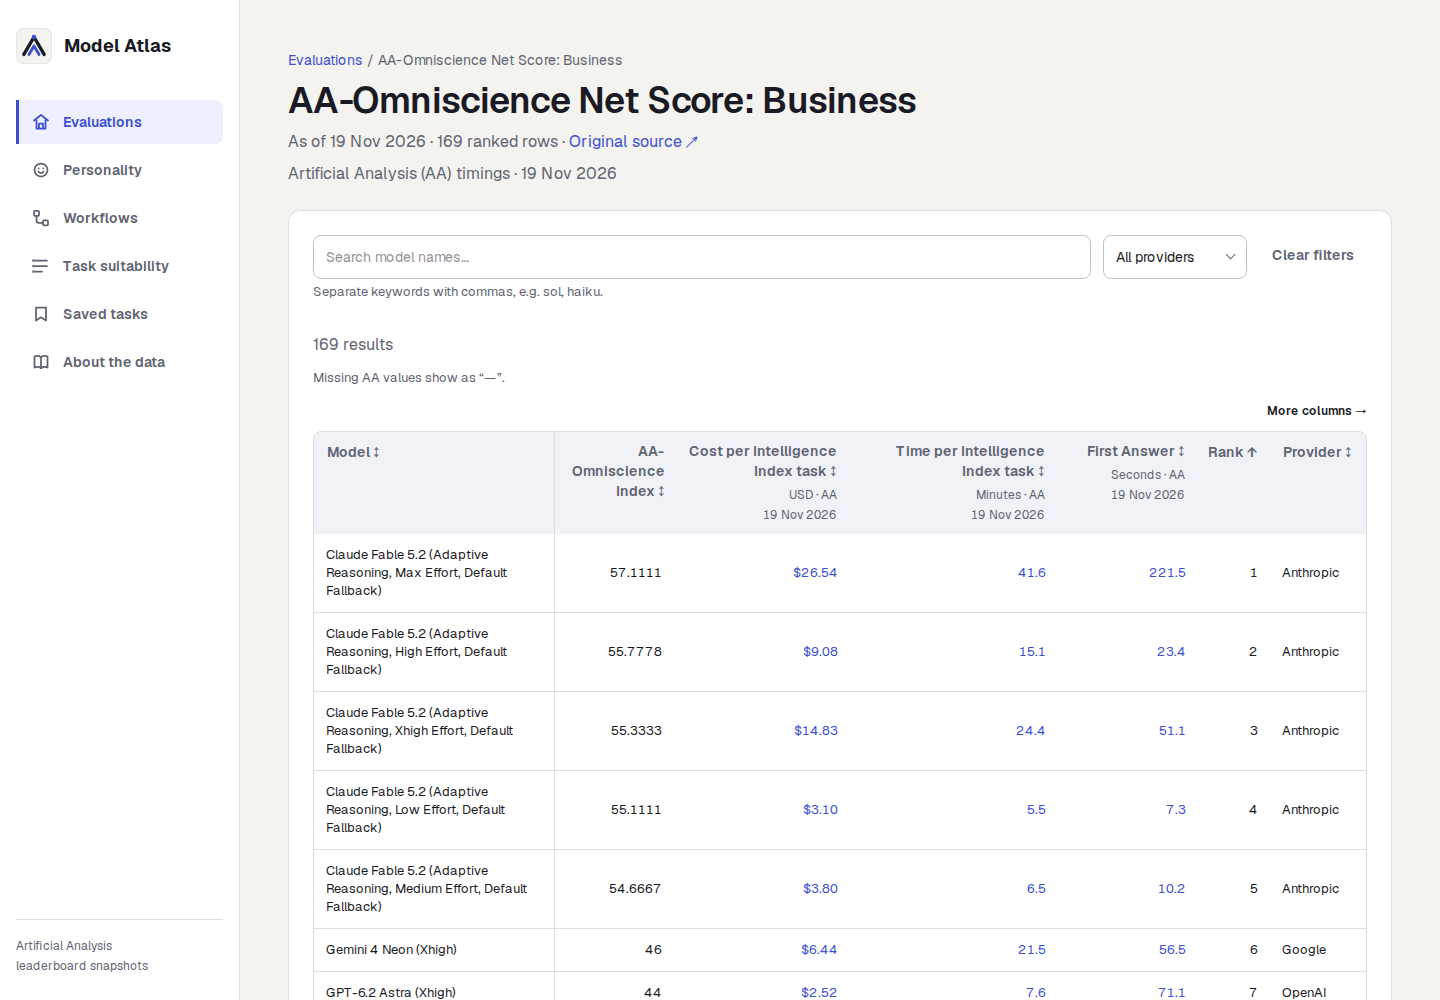
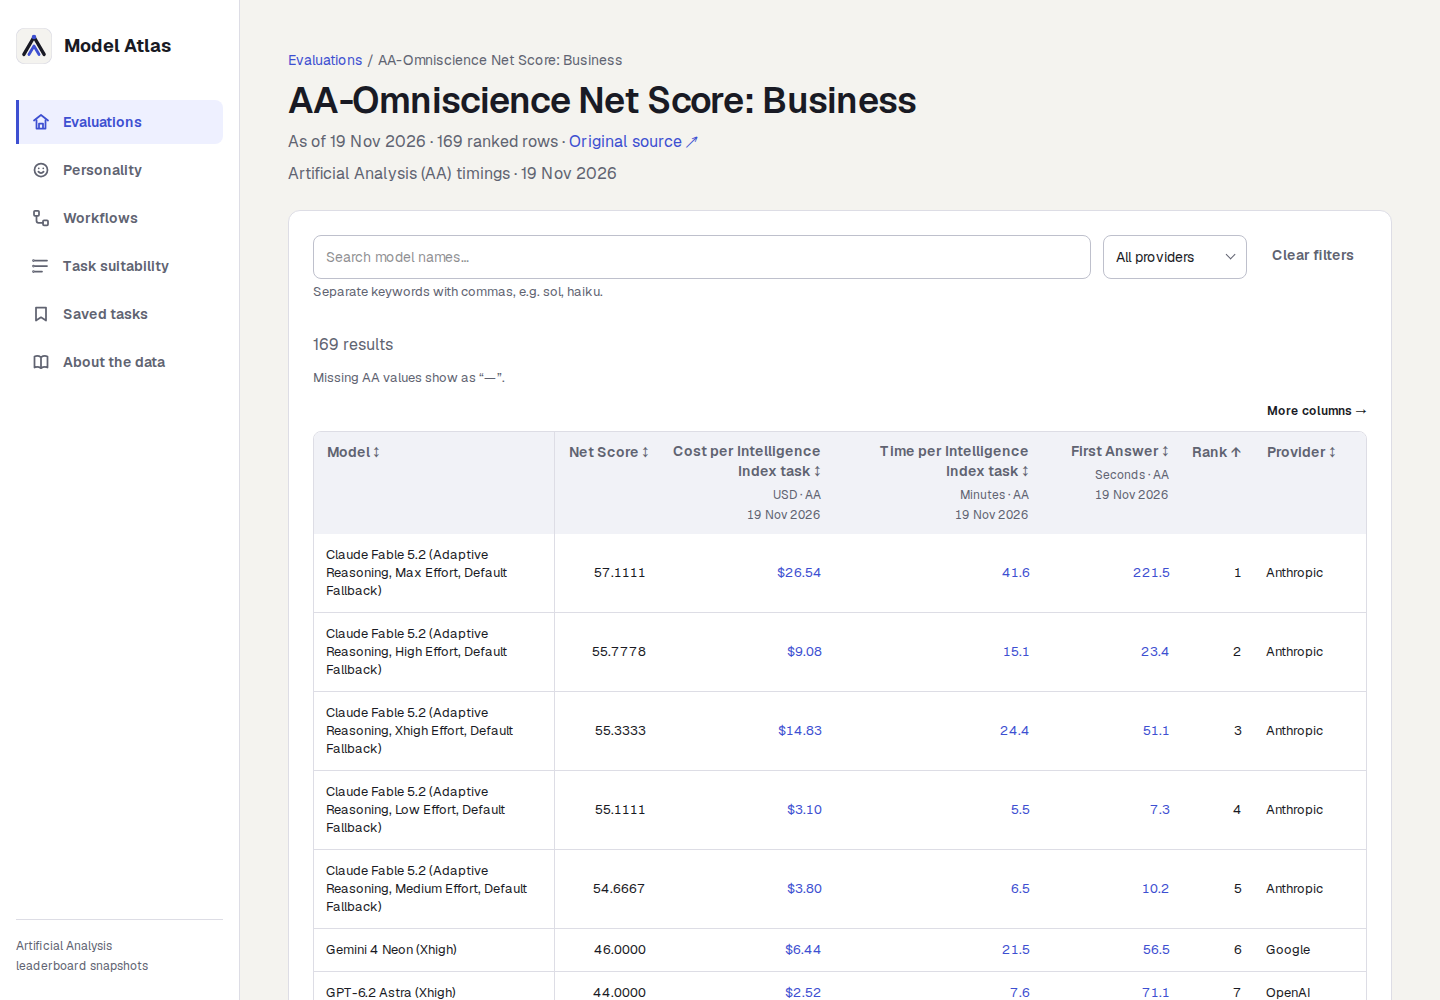
fix: align Business Net Score labels and precision
Address the task 1.5 screenshot review. Display signed Business scores
at four places in the evaluation and master, use Net Score in the
evaluation, catalog and suitability picker, and keep the mobile label
and value together. Use the shorter desktop header to free space for
Provider text. Captured values, ranks, and CSV output stay intact.

Record the 7 Nov Briefcase screenshot as historical and keep exact
source-reported zero costs visible. Save the current Business evidence
and both widths of the Terminal-Bench, Briefcase and Finance scenes
that use the same leaderboard.

diff --git a/src/components/leaderboard.tsx b/src/components/leaderboard.tsx
@@ -4,7 +4,7 @@ import {usePathname,useRouter,useSearchParams} from "next/navigation";
 import {flexRender,getCoreRowModel,useReactTable,type ColumnDef} from "@tanstack/react-table";
 import {parseQueryParams,type Entry,type Evaluation,type IntelligenceIndexTaskCost} from "@/lib/contract";
 import {matchesModelSearch,parseModelSearchTerms} from "@/lib/model-search";
-import {evaluationScoreDisplay} from "@/lib/evaluation-display";
+import {evaluationMetricLabel,evaluationScoreDisplay,omniscienceBusinessEvaluationId} from "@/lib/evaluation-display";
 import {evaluationTimePerTask,evaluationTimePerTaskLabel,formatFirstAnswer,formatTimePerTask,modelSpeedCaptureLabel,type ModelSpeed} from "@/lib/model-speed";
 import {ProviderMultiSelect,providerSelectionLabel} from "@/components/ui/provider-multi-select";
 import {Button, Card, HelperText, Input, Pagination, Select, Table, TableScroll} from "@/components/ui/primitives";
@@ -28,7 +28,7 @@ function EvaluationCard({entry,evaluation,speed,cost}:{entry:Entry;evaluation:Ev
   return <li className="master-card evaluation-card" data-model={entry.model} data-provider={entry.provider}>
     <div className="evaluation-card__head">
       <strong>#{entry.source_rank} {entry.model}</strong>
-      <small>{entry.provider} · <span className="evaluation-card__score">{evaluation.metric_label}: {evaluationScoreDisplay(evaluation,entry)}</span></small>
+      <small>{entry.provider} · <span className="evaluation-card__score">{evaluationMetricLabel(evaluation)}: {evaluationScoreDisplay(evaluation,entry)}</span></small>
     </div>
     <dl className="master-card__metrics">
       <div><dt>{evaluationTimePerTaskLabel(evaluation.id)} (min)</dt><dd><SpeedValue speed={speed} seconds={evaluationTimePerTask(evaluation.id,speed)} format={formatTimePerTask}/></dd></div>
@@ -83,7 +83,7 @@ export default function Leaderboard({entries,evaluation,taskCosts,speeds,costCap
   const rows=useMemo(()=>sorted.slice((page-1)*state.size,page*state.size),[sorted,page,state.size]);
   const columns=useMemo<ColumnDef<Entry>[]>(()=>{const result:ColumnDef<Entry>[]=[
     {accessorKey:"source_rank",header:"Rank"},{accessorKey:"provider",header:"Provider"},{accessorKey:"model",header:"Model"},
-    {accessorKey:"score_value",header:evaluation.metric_label,cell:({row})=>evaluationScoreDisplay(evaluation,row.original)},
+    {accessorKey:"score_value",header:evaluationMetricLabel(evaluation),cell:({row})=>evaluationScoreDisplay(evaluation,row.original)},
     ...(evaluation.has_scoring_status?[{id:"scoring_status",header:"Scoring status",cell:({row}:{row:{original:Entry}})=>row.original.scoring_status||"—"}]:[]),
     ...(evaluation.has_confidence_interval?[{accessorKey:"confidence_interval_display",header:"Elo CI",cell:({row}:{row:{original:Entry}})=>row.original.confidence_interval_display||"—"}]:[]),
     ...(evaluation.has_release_date?[{accessorKey:"release_date_label",header:"Release date",cell:({row}:{row:{original:Entry}})=>row.original.release_date_label||"—"}]:[]),
@@ -93,7 +93,11 @@ export default function Leaderboard({entries,evaluation,taskCosts,speeds,costCap
   ];return result.sort((a,b)=>columnOrder.indexOf(columnId(a))-columnOrder.indexOf(columnId(b)));},[evaluation,taskCosts,speeds]);
   const table=useReactTable({data:rows,columns,getCoreRowModel:getCoreRowModel(),manualPagination:true,autoResetPageIndex:false});
   const providers=[...new Set(entries.map(e=>e.provider))].sort();
-  return <Card className="evaluation-leaderboard">
+  const widthForColumn=(column:ColumnDef<Entry>)=>{
+    const id=columnId(column);
+    return id==="score_value"&&evaluation.id===omniscienceBusinessEvaluationId?104:columnWidths[id];
+  };
+  return <Card className="evaluation-leaderboard" data-evaluation={evaluation.id}>
     <div className="toolbar filter-toolbar">
       <LeaderboardModelSearch value={searchTerm} onCommit={commitSearch}/>
       <label className="sr-only" htmlFor="provider">Provider</label>
@@ -111,9 +115,9 @@ export default function Leaderboard({entries,evaluation,taskCosts,speeds,costCap
     </div>
     <div className="evaluation-table-view">
       <TableScroll showOverflowCue label={`${evaluation.display_name} source rankings, scroll horizontally for all columns`}>
-        <Table className="evaluation-table" style={{tableLayout:"fixed",width:columns.reduce((sum,column)=>sum+columnWidths[columnId(column)],0)}}>
+        <Table className="evaluation-table" style={{tableLayout:"fixed",width:columns.reduce((sum,column)=>sum+widthForColumn(column),0)}}>
           <caption className="sr-only">{evaluation.display_name} source rankings</caption>
-          <colgroup>{columns.map(column=><col key={columnId(column)} style={{width:columnWidths[columnId(column)]}}/>)}</colgroup>
+          <colgroup>{columns.map(column=><col key={columnId(column)} style={{width:widthForColumn(column)}}/>)}</colgroup>
           <thead>{table.getHeaderGroups().map(group=><tr key={group.id}>{group.headers.map(header=>{
             const heading=flexRender(header.column.columnDef.header,header.getContext());
             const detail=header.id==="cost_usd"?["USD",costCapturedLabel]:columnDetails[header.id];

diff --git a/src/components/suitability-planner.tsx b/src/components/suitability-planner.tsx
@@ -4,6 +4,7 @@ import Link from "next/link";
 import { usePathname, useRouter, useSearchParams } from "next/navigation";
 import { useEffect, useMemo, useRef, useState, type FormEvent } from "react";
 import { masterIdentityKey } from "@/lib/master";
+import { evaluationMetricLabel } from "@/lib/evaluation-display";
 import { readModelFavorites, subscribeToModelFavorites, writeModelFavorites } from "@/lib/model-favorites";
 import { calculateSuitability, suitabilityTaskSchema, type EvaluationWeight, type SuitabilityTask } from "@/lib/suitability";
 import { browserTaskNeedsSharedCopy, pinComparison, readSavedTaskSummaries, readSavedTasks, savedComparisonSchema, suitabilityCategorySchema, type PlannerData, type SavedComparison, type SavedTaskSummary, type SuitabilityCategory } from "@/lib/suitability-storage";
@@ -1430,7 +1431,7 @@ export default function Planner({ data }: { data: PlannerData }) {
       <div className={styles.picker}>{groups.map(category => <fieldset key={category}><legend>{category.replaceAll("_", " ")}</legend>
         {visibleEvaluations.filter(evaluation => evaluation.category === category).map(evaluation => <label className={styles.option} key={evaluation.id}>
           <Checkbox checked={weights.some(weight => weight.evaluation_id === evaluation.id)} onChange={() => toggleEvaluation(evaluation.id)} />
-          <span><strong>{evaluation.display_name}</strong><small>{evaluation.metric_label} · {evaluation.row_count} ranked rows · {evaluation.captured_at}</small></span></label>)}
+          <span><strong>{evaluation.display_name}</strong><small>{evaluationMetricLabel(evaluation)} · {evaluation.row_count} ranked rows · {evaluation.captured_at}</small></span></label>)}
       </fieldset>)}{visibleEvaluations.length === 0 && <p>No evaluations match.</p>}</div>
       <div className="toolbar"><Button onClick={() => setWeights(equal(weights))} disabled={!weights.length}>Equal weights</Button><strong aria-live="polite">Total: {Number.isFinite(total) ? total.toFixed(2) : "Invalid"}%</strong></div>
       {weights.map(weight => <div className={styles.weight} key={weight.evaluation_id}><label htmlFor={`weight-${weight.evaluation_id}`}>{working.evaluations.find(evaluation => evaluation.id === weight.evaluation_id)?.display_name}</label>

diff --git a/src/lib/master.ts b/src/lib/master.ts
@@ -1,5 +1,6 @@
 import { z } from "zod";
 import { entrySchema, type Entry, type Evaluation, type IntelligenceIndexTaskCost } from "./contract";
+import { evaluationScoreDisplay, omniscienceBusinessEvaluationId } from "./evaluation-display";
 import type { ModelSpeed } from "./model-speed";
 
 export const masterRowSchema=z.object({model_id:z.string(),identity_key:z.string(),provider:z.string(),model:z.string(),cells:z.record(z.string(),z.object({entry:entrySchema,href:z.string()})),source_rank:z.number(),source_entries:z.array(entrySchema),intelligence_index_cost:z.object({slug:z.string(),provider:z.string(),model:z.string(),cost_usd:z.number().nonnegative(),url:z.string().url(),profile_captured_at:z.string().optional()}).nullable(),speed:z.object({slug:z.string(),provider:z.string(),model:z.string(),url:z.string().url(),time_per_task_s:z.number().nonnegative().nullable(),first_answer_s:z.number().nonnegative().nullable(),evaluation_times_s:z.record(z.string(),z.number().nonnegative()),captured_at:z.string()}).nullable()});
@@ -13,7 +14,7 @@ export function masterTableRows(rows:MasterRow[]):MasterTableRow[]{
       entry:{
         source_rank:entry.source_rank,
         scoring_status:entry.scoring_status,
-        ...(id===omniscienceBusinessEvaluationId?{score_display:entry.score_display}:{}),
+        ...(id===omniscienceBusinessEvaluationId?{score_display:evaluationScoreDisplay({id},entry)}:{}),
       },
     }])),
   }));
@@ -21,7 +22,6 @@ export function masterTableRows(rows:MasterRow[]):MasterTableRow[]{
 export function evaluationLink(e:Evaluation,model:string){return `/leaderboards/${e.slug}?q=${encodeURIComponent(model)}`;}
 
 const sweAtlasEvaluationId="swe-atlas-qna-aa";
-export const omniscienceBusinessEvaluationId="aa-omniscience-business";
 const supplementalEvaluationIds=[sweAtlasEvaluationId,omniscienceBusinessEvaluationId];
 
 const masterEvaluationOrder=[

diff --git a/tests/evaluation-display.test.ts b/tests/evaluation-display.test.ts
@@ -1,6 +1,6 @@
 import assert from "node:assert/strict";
 import { test } from "node:test";
-import { evaluationScoreDisplay } from "../src/lib/evaluation-display";
+import { evaluationMetricLabel, evaluationScoreDisplay } from "../src/lib/evaluation-display";
 
 test("Terminal Bench fractions display as percentages with consistent precision without mutating scores", () => {
   for (const [value, expected] of [[0.671717171717172, "67.17%"], [0.59596, "59.60%"], [0, "0.00%"], [1, "100.00%"]] as const) {
@@ -30,5 +30,16 @@ test("Intelligence Index scores align at four decimals without changing stored v
 test("SWE-Atlas QnA pass rates keep four decimals, including trailing zeros", () => {
   for (const [value, expected] of [[61.8279569, "61.8280"], [58.8709677, "58.8710"], [33.8709677, "33.8710"], [0, "0.0000"], [100, "100.0000"]] as const) {
     assert.equal(evaluationScoreDisplay({ id: "swe-atlas-qna-aa" }, { score_value: value, score_display: String(value) }), expected);
+  }
+});
+
+test("Omniscience Business shows signed Net Scores at four decimal places", () => {
+  const evaluation = { id: "aa-omniscience-business", metric_label: "AA-Omniscience Index" };
+  assert.equal(evaluationMetricLabel(evaluation), "Net Score");
+  assert.equal(evaluationMetricLabel({ ...evaluation, id: "aa-omniscience-index" }), "AA-Omniscience Index");
+  for (const [value, expected] of [[46, "46.0000"], [0, "0.0000"], [6.44444444, "6.4444"], [-0.44444444, "-0.4444"], [-76.22222222, "-76.2222"]] as const) {
+    const entry = { score_value: value, score_display: String(value) };
+    assert.equal(evaluationScoreDisplay(evaluation, entry), expected);
+    assert.deepEqual(entry, { score_value: value, score_display: String(value) });
   }
 });

diff --git a/src/app/page.tsx b/src/app/page.tsx
@@ -2,6 +2,7 @@ import Link from "next/link";
 import {Suspense} from "react";
 import MasterLeaderboard from "@/components/master-leaderboard";
 import {getMasterDataset} from "@/lib/data";
+import {evaluationMetricLabel} from "@/lib/evaluation-display";
 import {masterTableRows} from "@/lib/master";
 import {modelSpeedCaptureLabel} from "@/lib/model-speed";
 import {Card, EmptyState, PageHeader, Section, SectionHeader, Spinner} from "@/components/ui/primitives";
@@ -42,7 +43,7 @@ export default async function Home(){
               <div className="eyebrow">{e.category.replaceAll("_"," ")}</div>
               <h3><Link href={`/leaderboards/${e.slug}`}>{e.display_name}</Link></h3>
               {e.metric_group && e.metric_indicator && <div className="metric-tag"><span className={`metric-indicator metric-indicator--${e.metric_indicator}`} style={{backgroundColor:e.metric_color}} aria-hidden="true"/><span>{chartMarkerLabels[e.metric_indicator]}</span></div>}
-              <p className="evaluation-meta">{e.metric_label} · {e.row_count.toLocaleString()} ranked models</p>
+              <p className="evaluation-meta">{evaluationMetricLabel(e)} · {e.row_count.toLocaleString()} ranked models</p>
               <Link className="open" href={`/leaderboards/${e.slug}`}>View leaderboard →</Link>
             </Card>)}
           </div>

diff --git a/src/lib/evaluation-display.ts b/src/lib/evaluation-display.ts
@@ -1,9 +1,17 @@
 import type { Entry, Evaluation } from "./contract";
 
+export const omniscienceBusinessEvaluationId = "aa-omniscience-business";
+
+export function evaluationMetricLabel(evaluation: Pick<Evaluation, "id" | "metric_label">): string {
+  return evaluation.id === omniscienceBusinessEvaluationId ? "Net Score" : evaluation.metric_label;
+}
+
 export function evaluationScoreDisplay(evaluation: Pick<Evaluation, "id">, entry: Pick<Entry, "score_value" | "score_display">): string {
   // This captured benchmark stores fractions even though its source label is a percentage.
   // Format at the view boundary, preserving the captured values and their sort order.
   if (evaluation.id === "terminal-bench-4-0") return `${(entry.score_value * 100).toFixed(2)}%`;
-  if (evaluation.id === "intelligence-index" || evaluation.id === "swe-atlas-qna-aa") return entry.score_value.toFixed(4);
+  if (evaluation.id === "intelligence-index" || evaluation.id === "swe-atlas-qna-aa" || evaluation.id === omniscienceBusinessEvaluationId) {
+    return entry.score_value.toFixed(4);
+  }
   return entry.score_display;
 }

diff --git a/src/components/master-leaderboard.tsx b/src/components/master-leaderboard.tsx
@@ -3,7 +3,8 @@ import Link from "next/link";
 import {useSearchParams,useRouter} from "next/navigation";
 import {useCallback,useEffect,useMemo,useState,type ReactNode} from "react";
 import type {Evaluation} from "@/lib/contract";
-import {averageMasterRank,masterEvaluationLabel,masterLeaderboardCsv,omniscienceBusinessEvaluationId,orderMasterEvaluations,sortMaster,type MasterTableRow} from "@/lib/master";
+import {averageMasterRank,masterEvaluationLabel,masterLeaderboardCsv,orderMasterEvaluations,sortMaster,type MasterTableRow} from "@/lib/master";
+import {omniscienceBusinessEvaluationId} from "@/lib/evaluation-display";
 import {readModelFavorites,subscribeToModelFavorites,writeModelFavorites} from "@/lib/model-favorites";
 import {matchesModelSearch,parseModelSearchTerms} from "@/lib/model-search";
 import {formatFirstAnswer,formatTimePerTask} from "@/lib/model-speed";

diff --git a/src/app/globals.css b/src/app/globals.css
@@ -2069,6 +2069,10 @@ a.ui-button:hover {
     font-weight: var(--type-weight-semibold);
   }
 
+  .evaluation-leaderboard[data-evaluation="aa-omniscience-business"] .evaluation-card__score {
+    white-space: nowrap;
+  }
+
   .evaluation-card .master-card__metrics {
     margin-bottom: 0;
   }

diff --git a/docs/approved-looks.md b/docs/approved-looks.md
@@ -12,6 +12,8 @@
 - The Personality trait table's Elo 95% interval header has no sort arrow. The interval is informational and uses the same muted header text as the sortable columns.
 - 1440px and 390px captures are one screen tall, so the bottom edge can cut through a table row, a header date or a card; the page continues below.
 - The archived Personality build's `desktop-all.png` and `phone-all.png` show the app before Workflows. The Workflows gallery contains current desktop and phone navigation captures.
+- The 7 Nov Briefcase phone image in `speed-columns` is historical. The `neon-omniscience-business` gallery shows the 19 Nov layout with the labeled search and boxed sort button.
+- Evaluation cost cells show source-reported zeroes as `$0.00` and missing costs as a dash. The 19 Nov capture reports exactly zero for Command A+, K2 Horizon 375B A23B, and North Mini Code.
 - The Workflows overview capture ends after the 15-row table. The detail cards and the page end are shown in separate captures.
 - Workflows overview rows keep the height of their tallest cell as columns scroll, so long runner-up names can leave space under shorter cells at 390px and 1024px.
 - The Workflows overview shows Pick next to the pinned Step column on phones. The scroll cues mark columns on either side, including partly visible columns at the frame edge.
